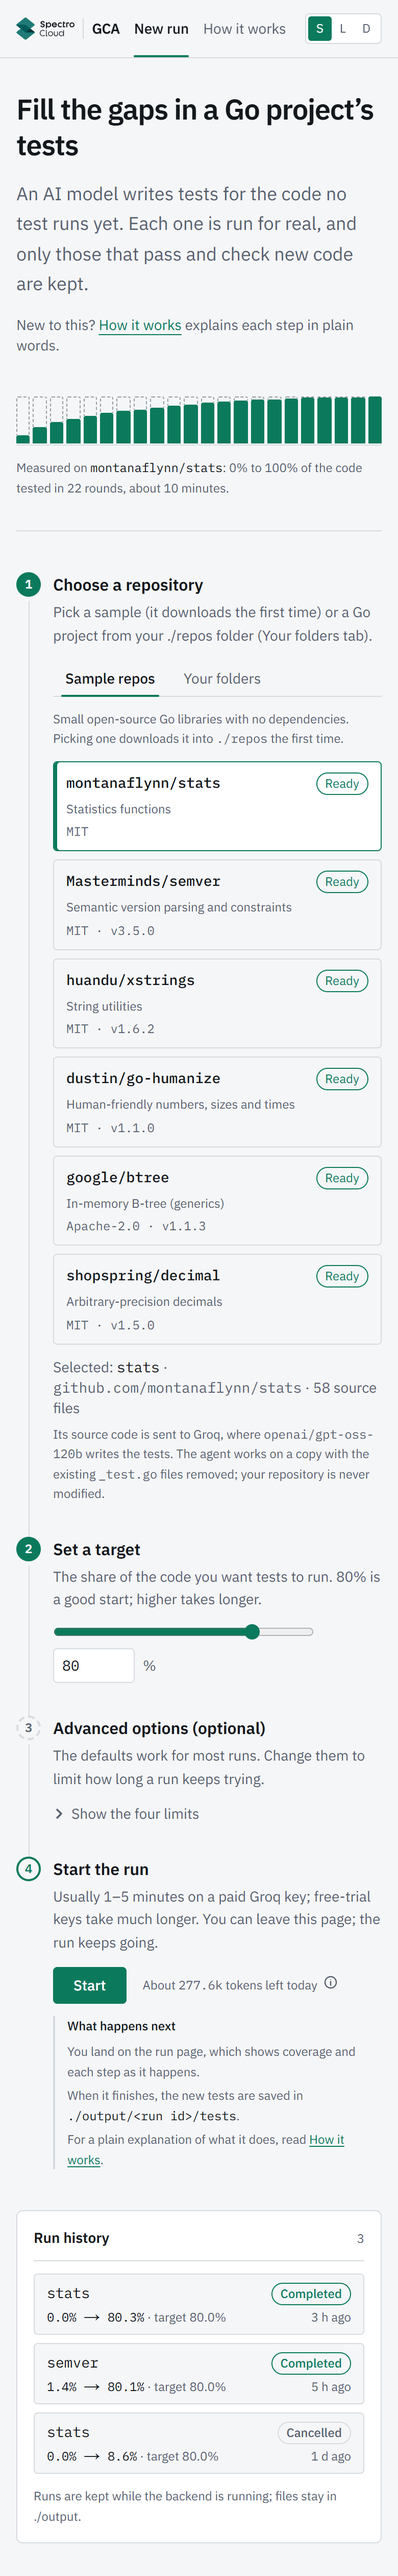
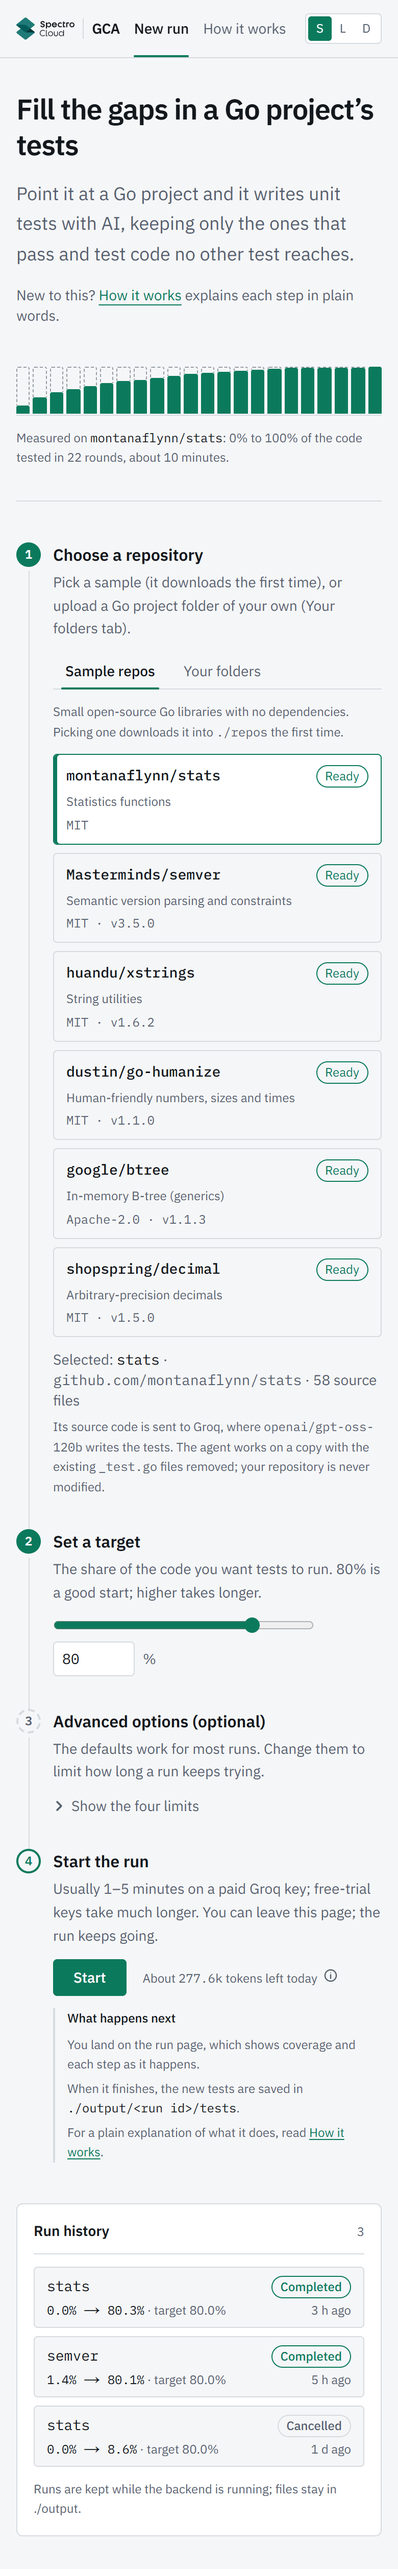
fix(frontend): one-sentence header line

diff --git a/frontend/src/app/page.tsx b/frontend/src/app/page.tsx
@@ -154,7 +154,7 @@ export default function SetupPage() {
         <div className="min-w-0 max-w-2xl space-y-4">
           <h1 className="text-[1.75rem] font-semibold leading-tight tracking-tight sm:text-[2.25rem]">Fill the gaps in a Go project’s tests</h1>
           <p className="max-w-[38rem] text-lg leading-relaxed text-muted">
-            An AI model writes tests for the code no test runs yet. Each one is run for real, and only those that pass and check new code are kept.
+            Point it at a Go project and it writes unit tests with AI, keeping only the ones that pass and test code no other test reaches.
           </p>
           <p className="text-sm text-muted">
             New to this? <Link href="/how-it-works" className="text-accent underline underline-offset-4">How it works</Link> explains each step in plain words.

diff --git a/frontend/src/app/page.test.tsx b/frontend/src/app/page.test.tsx
@@ -54,7 +54,7 @@ describe("SetupPage", () => {
     expect(h1).toHaveTextContent("Fill the gaps in a Go project’s tests");
     const header = h1.closest("header")!;
     expect(header).toHaveTextContent(
-      "An AI model writes tests for the code no test runs yet. Each one is run for real, and only those that pass and check new code are kept.",
+      "Point it at a Go project and it writes unit tests with AI, keeping only the ones that pass and test code no other test reaches.",
     );
     expect(header.textContent).not.toMatch(/autonomously|LLM/);
     // the proof uses the real run 0e1f8bf7442a (output/0e1f8bf7442a/report.json)
